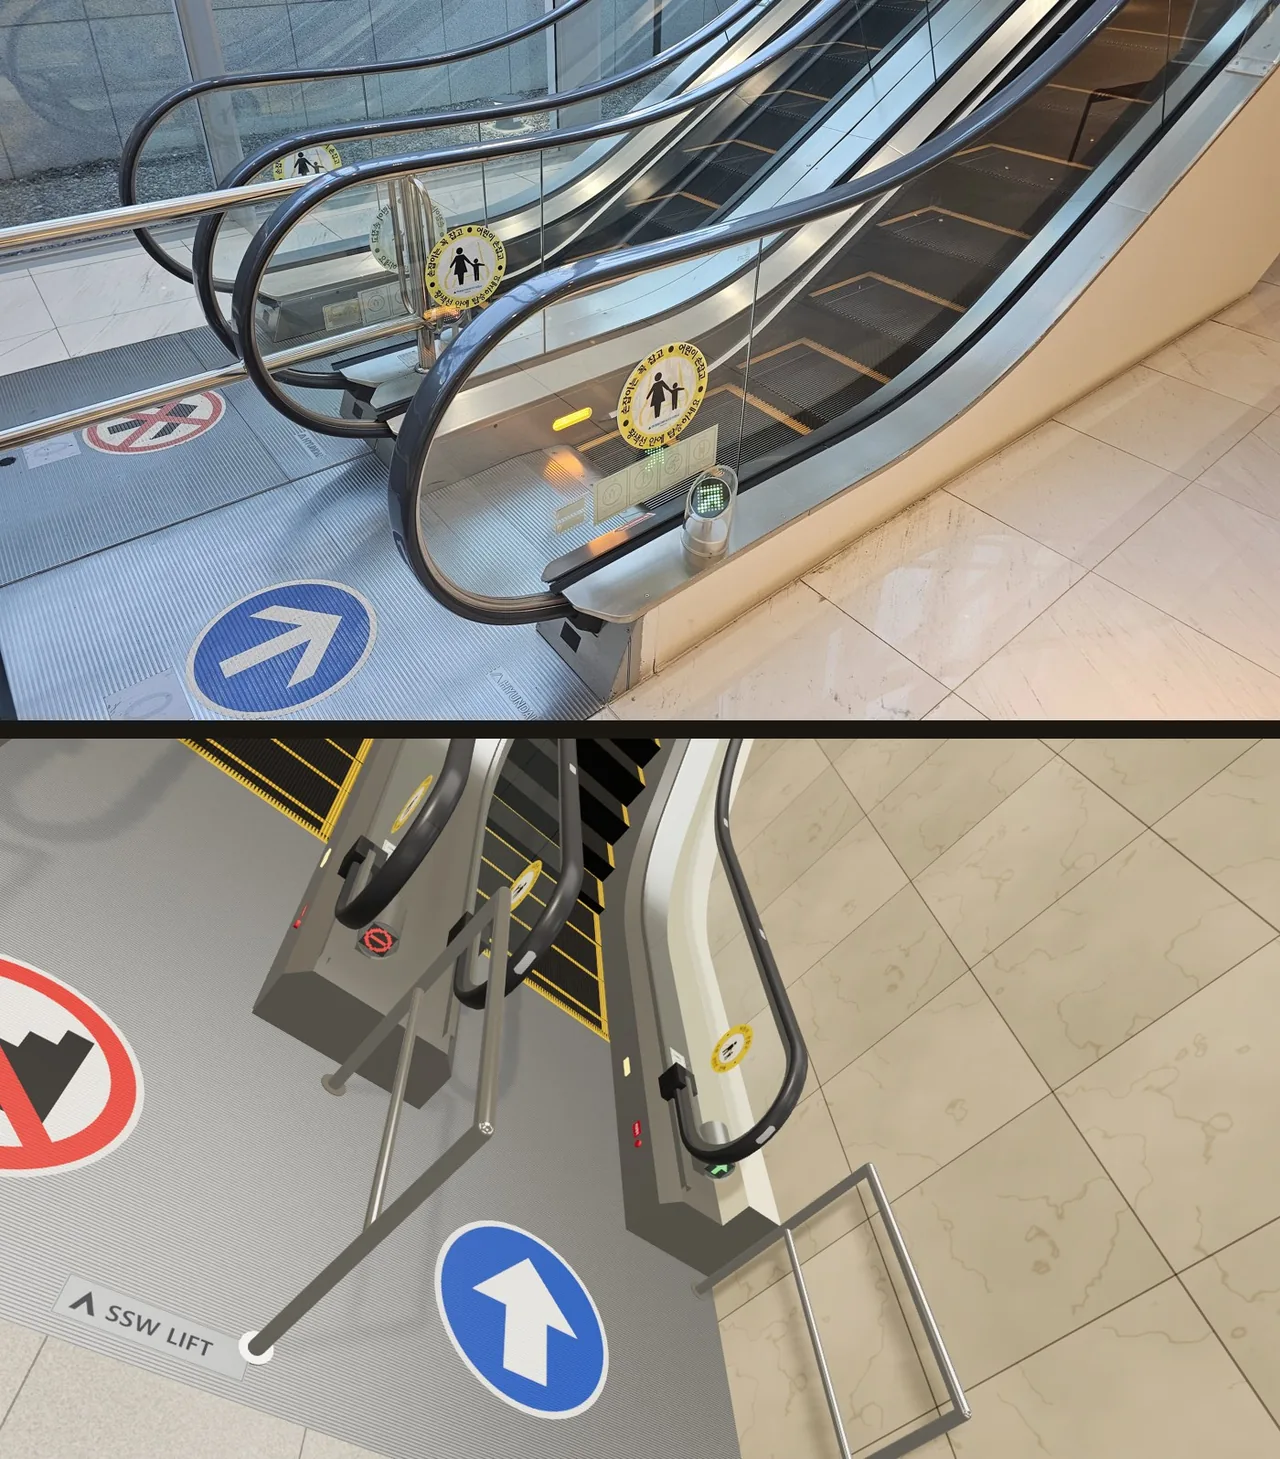
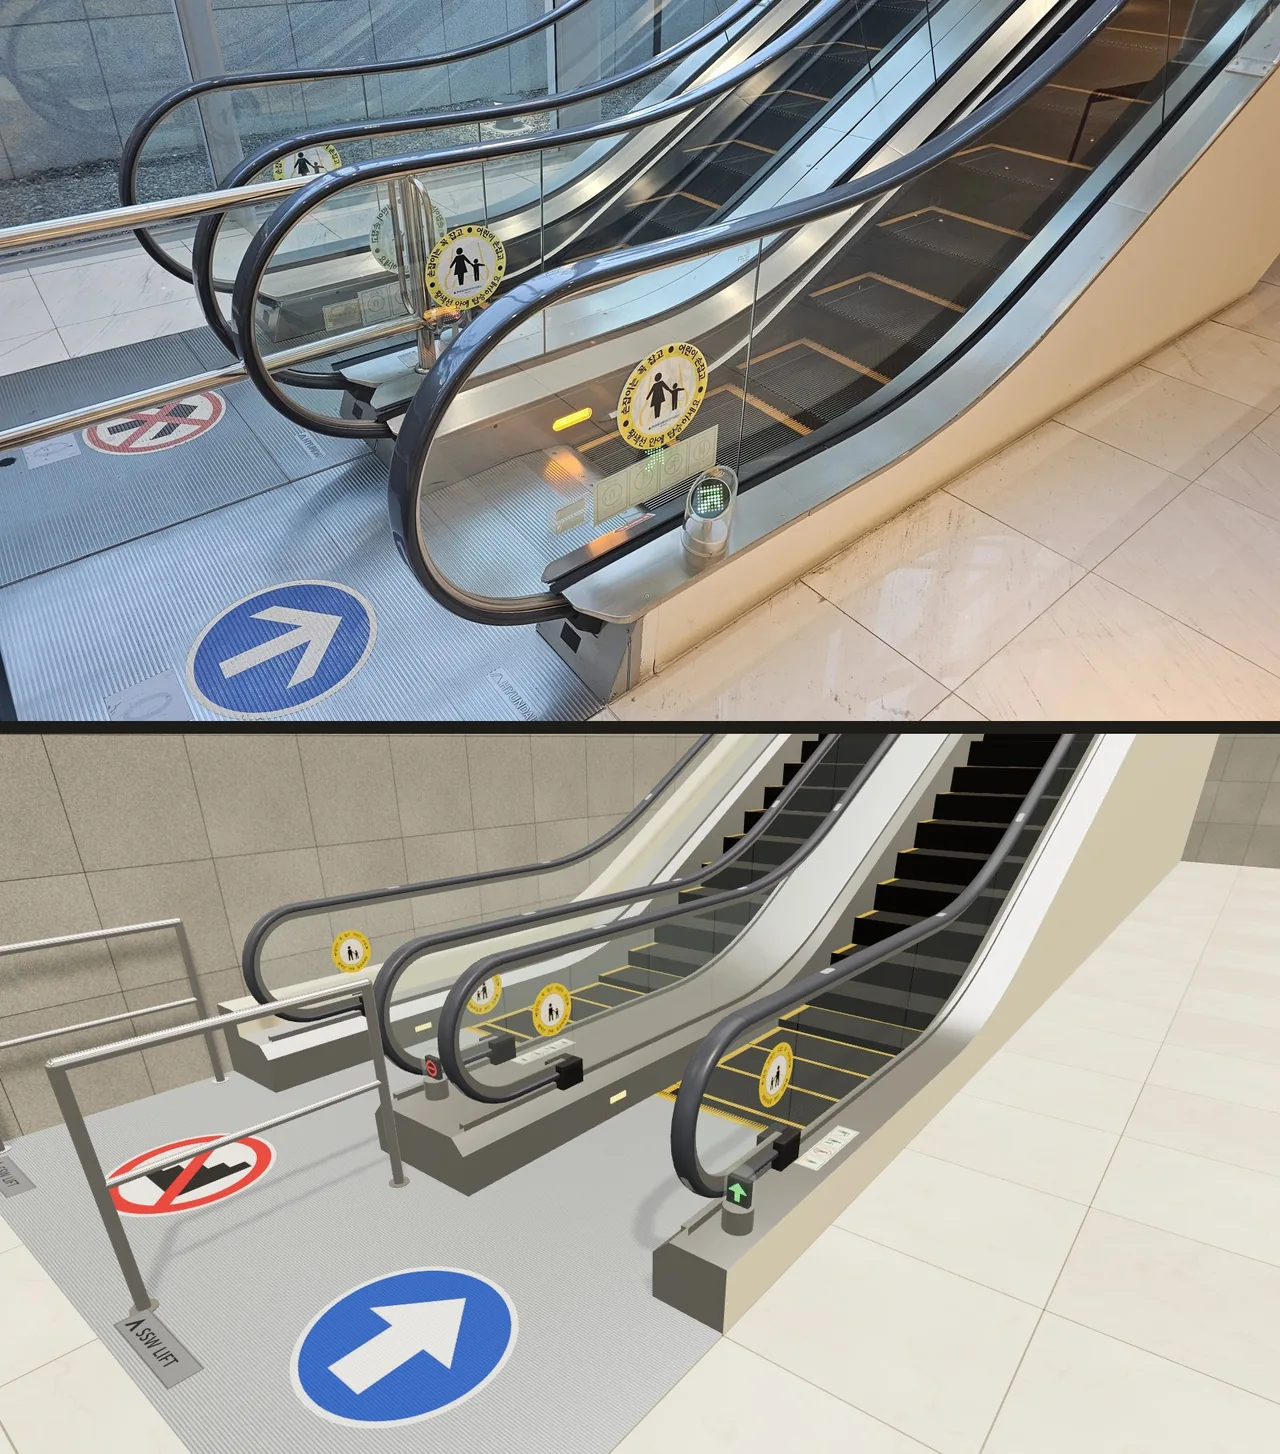
feat(experiments): 에스컬레이터 텍스처 교체 후 그림 다시 찍은 판으로 바꿈

diff --git a/web/src/features/experiments/data/agentExperiments.ts b/web/src/features/experiments/data/agentExperiments.ts
@@ -742,7 +742,7 @@ export const agentExperiments: AgentExperiment[] = [
     imageGroups: [
       {
         title: '참고 사진',
-        description: '모델링에 쓴 사진 한 장과, 비슷한 각도에서 본 Blender 결과를 위아래로 놓은 비교입니다.',
+        description: '모델링에 쓴 사진 한 장과, 같은 시점에서 본 Blender 결과를 위아래로 놓은 비교입니다.',
         modelCredits: [{ purpose: 'Blender 모델링', models: ['Fable 5.2'] }],
         images: [
           {
@@ -752,7 +752,7 @@ export const agentExperiments: AgentExperiment[] = [
           },
           {
             src: '/images/agent-experiments/blender-escalator/02-compare.webp',
-            alt: '위에 원본 사진, 아래에 비슷한 각도의 Blender 모델을 놓아 핸드레일 끝, 바닥 화살표와 금지 표시, 안전 스티커를 비교한 그림',
+            alt: '위에 원본 사진, 아래에 같은 시점의 Blender 모델을 놓아 핸드레일 끝, 바닥 화살표와 금지 표시, 안전 스티커를 비교한 그림',
             caption: '사진(위)과 Blender 모델(아래) 비교',
           },
         ],
@@ -769,7 +769,7 @@ export const agentExperiments: AgentExperiment[] = [
           },
           {
             src: '/images/agent-experiments/blender-escalator/04-overview.webp',
-            alt: '대리석 벽으로 둘러싸인 두 층 높이 공간에 나란히 놓인 에스컬레이터 두 대의 전체 모습',
+            alt: '회색 석재 타일 벽과 크림색 대리석 바닥으로 된 두 층 높이 공간에 나란히 놓인 에스컬레이터 두 대의 전체 모습',
             caption: '두 층을 잇는 전체 모습',
           },
           {
